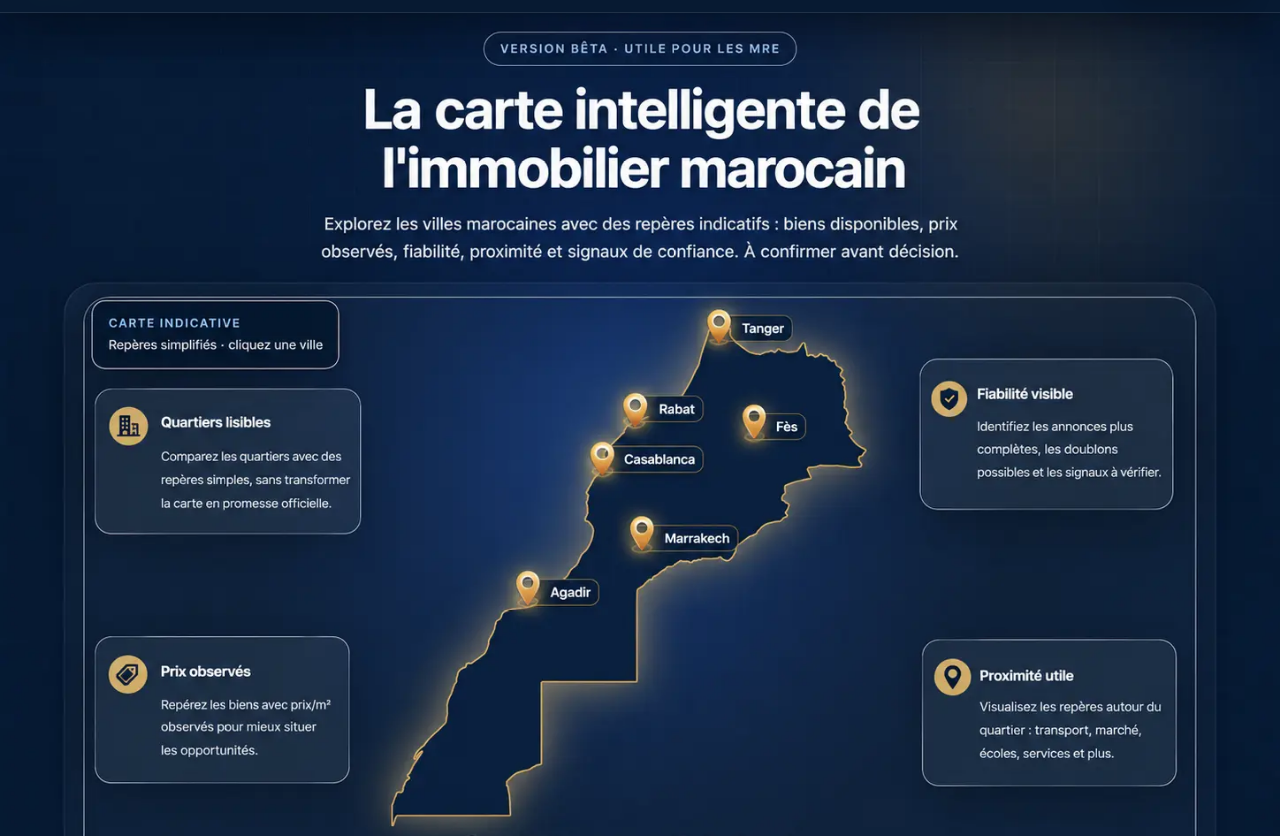
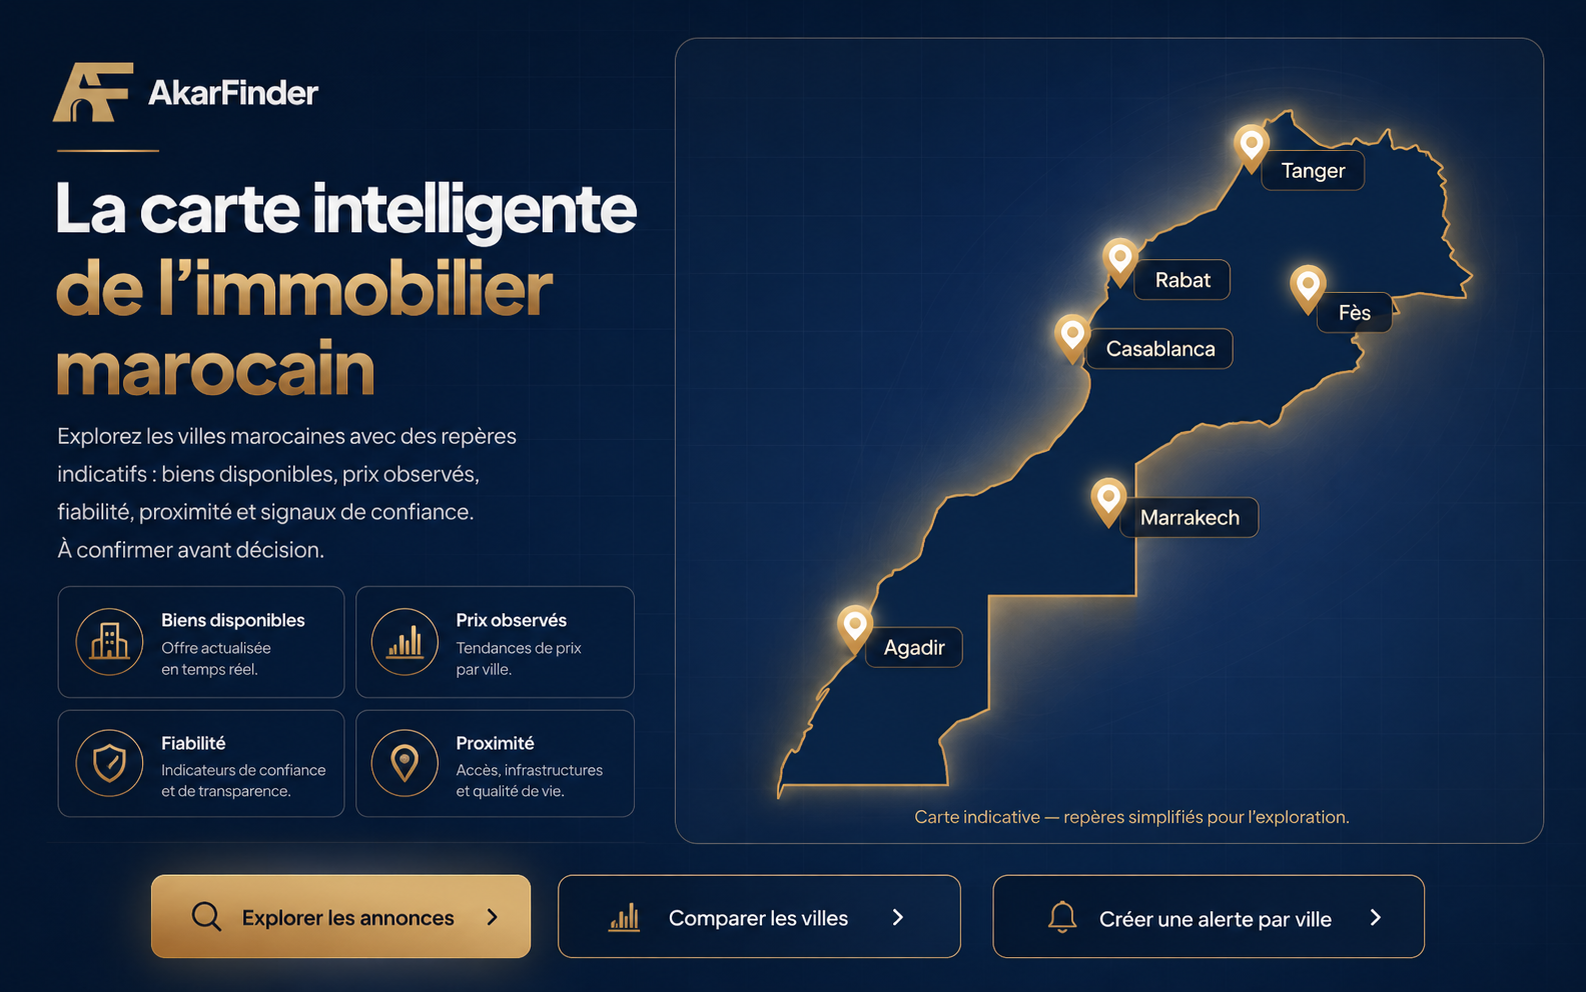
feat(carte-intelligente): new map section images + corrected city pins
- map-section-desktop.png replaced (1586x992, full 2-column design)
- map-section-mobile.png replaced (941x1672, map + Explorer city rows)
- SignatureMapSection: desktop pins recalibrated for new image
- SignatureMapSection: mobile pins + city row zones added (6 cities)
- Fes and Marrakech positions corrected
- Re-added to homepage (after CityIntentGrid)
- All links point to /search?city=CityName

diff --git a/components/landing/SignatureMapSection.tsx b/components/landing/SignatureMapSection.tsx
@@ -1,35 +1,56 @@
 import Image from "next/image";
 import Link from "next/link";
 
+// Zones cliquables sur le desktop (image 1586×992)
+// Le panneau carte est à droite (~37% à ~98% de la largeur)
 const desktopPins = [
-  { city: "Tanger",     href: "/search?city=Tanger",     top: "38%", left: "72%" },
-  { city: "Fès",        href: "/search?city=F%C3%A8s",   top: "43%", left: "74%" },
-  { city: "Rabat",      href: "/search?city=Rabat",      top: "43%", left: "58%" },
-  { city: "Casablanca", href: "/search?city=Casablanca", top: "47%", left: "56%" },
-  { city: "Marrakech",  href: "/search?city=Marrakech",  top: "55%", left: "53%" },
-  { city: "Agadir",     href: "/search?city=Agadir",     top: "63%", left: "44%" },
+  { city: "Tanger",     href: "/search?city=Tanger",     top: "15%", left: "69%" },
+  { city: "Fès",        href: "/search?city=F%C3%A8s",   top: "31%", left: "74%" },
+  { city: "Rabat",      href: "/search?city=Rabat",      top: "30%", left: "59%" },
+  { city: "Casablanca", href: "/search?city=Casablanca", top: "39%", left: "56%" },
+  { city: "Marrakech",  href: "/search?city=Marrakech",  top: "51%", left: "64%" },
+  { city: "Agadir",     href: "/search?city=Agadir",     top: "60%", left: "52%" },
 ];
 
-// Overlays sur les boutons "Explorez les villes" en bas de l'image carte intelligente mobile
-const mobileCityCards = [
-  { city: "Casablanca", href: "/search?city=Casablanca", top: "63%", height: "10%" },
-  { city: "Rabat",      href: "/search?city=Rabat",      top: "73%", height: "10%" },
-  { city: "Tanger",     href: "/search?city=Tanger",     top: "73%", height: "10%" },
-  { city: "Fès",        href: "/search?city=F%C3%A8s",   top: "83%", height: "10%" },
-  { city: "Marrakech",  href: "/search?city=Marrakech",  top: "83%", height: "10%" },
-  { city: "Agadir",     href: "/search?city=Agadir",     top: "63%", height: "10%" },
+// Zones cliquables sur les pins de la carte mobile (image 941×1672)
+const mobilePins = [
+  { city: "Tanger",     href: "/search?city=Tanger",     top: "27%", left: "64%" },
+  { city: "Fès",        href: "/search?city=F%C3%A8s",   top: "35%", left: "73%" },
+  { city: "Rabat",      href: "/search?city=Rabat",      top: "33%", left: "50%" },
+  { city: "Casablanca", href: "/search?city=Casablanca", top: "37%", left: "46%" },
+  { city: "Marrakech",  href: "/search?city=Marrakech",  top: "44%", left: "59%" },
+  { city: "Agadir",     href: "/search?city=Agadir",     top: "50%", left: "36%" },
+];
+
+// Zones cliquables sur les lignes "Explorer [Ville]" mobile
+const mobileCityRows = [
+  { city: "Casablanca", href: "/search?city=Casablanca", top: "61.5%", height: "5.8%" },
+  { city: "Rabat",      href: "/search?city=Rabat",      top: "67.3%", height: "5.8%" },
+  { city: "Tanger",     href: "/search?city=Tanger",     top: "73.1%", height: "5.8%" },
+  { city: "Fès",        href: "/search?city=F%C3%A8s",   top: "78.9%", height: "5.8%" },
+  { city: "Marrakech",  href: "/search?city=Marrakech",  top: "84.7%", height: "5.8%" },
+  { city: "Agadir",     href: "/search?city=Agadir",     top: "90.5%", height: "5.8%" },
+];
+
+const ALL_CITIES = [
+  { city: "Casablanca", href: "/search?city=Casablanca" },
+  { city: "Rabat",      href: "/search?city=Rabat" },
+  { city: "Tanger",     href: "/search?city=Tanger" },
+  { city: "Fès",        href: "/search?city=F%C3%A8s" },
+  { city: "Marrakech",  href: "/search?city=Marrakech" },
+  { city: "Agadir",     href: "/search?city=Agadir" },
 ];
 
 export function SignatureMapSection() {
   return (
     <section id="signature-map">
-      {/* Desktop */}
+      {/* Desktop — image 1586×992, map on right panel */}
       <div className="relative hidden lg:block">
         <Image
           src="/images/map-section-desktop.png"
-          alt="Carte intelligente de l'immobilier marocain"
-          width={1280}
-          height={836}
+          alt="Carte intelligente de l'immobilier marocain — Casablanca, Rabat, Tanger, Fès, Marrakech, Agadir"
+          width={1586}
+          height={992}
           className="w-full"
           priority={false}
         />
@@ -38,32 +59,66 @@ export function SignatureMapSection() {
             key={city}
             href={href}
             aria-label={`Explorer les annonces à ${city}`}
-            className="absolute h-10 w-10 -translate-x-1/2 -translate-y-1/2 rounded-full"
+            className="group absolute h-14 w-28 -translate-x-1/2 -translate-y-1/2 cursor-pointer rounded-2xl"
             style={{ top, left }}
-          />
+          >
+            <span className="absolute inset-0 rounded-2xl bg-transparent transition duration-300 group-hover:bg-white/[0.08]" />
+          </Link>
         ))}
+
+        {/* CTA "Explorer les annonces" — bouton doré en bas à gauche */}
+        <Link
+          href="/search"
+          aria-label="Explorer les annonces"
+          className="absolute h-[8%] w-[22%] cursor-pointer rounded-2xl"
+          style={{ bottom: "5%", left: "4%" }}
+        />
       </div>
 
-      {/* Mobile */}
+      {/* Mobile — image 941×1672, map + liste des villes */}
       <div className="relative lg:hidden">
         <Image
           src="/images/map-section-mobile.png"
-          alt="Carte indicative de l'immobilier marocain — villes principales avec repères de prix"
-          width={390}
-          height={692}
+          alt="Carte indicative de l'immobilier marocain — villes principales"
+          width={941}
+          height={1672}
           className="w-full"
           priority={false}
         />
-        {mobileCityCards.map(({ city, href, top, height }) => (
+
+        {/* Zones sur les pins de la carte */}
+        {mobilePins.map(({ city, href, top, left }) => (
           <Link
-            key={city}
+            key={`pin-${city}`}
             href={href}
             aria-label={`Explorer les annonces à ${city}`}
-            className="absolute left-0 w-full"
+            className="group absolute h-10 w-10 -translate-x-1/2 -translate-y-1/2 cursor-pointer rounded-full"
+            style={{ top, left }}
+          >
+            <span className="absolute inset-0 rounded-full bg-transparent transition duration-300 group-hover:bg-white/[0.1]" />
+          </Link>
+        ))}
+
+        {/* Zones sur les lignes "Explorer [Ville]" */}
+        {mobileCityRows.map(({ city, href, top, height }) => (
+          <Link
+            key={`row-${city}`}
+            href={href}
+            aria-label={`Explorer les annonces à ${city}`}
+            className="absolute left-0 w-full cursor-pointer"
             style={{ top, height }}
           />
         ))}
       </div>
+
+      {/* Accessibilité */}
+      <ul className="sr-only">
+        {ALL_CITIES.map(({ city, href }) => (
+          <li key={city}>
+            <Link href={href}>Explorer les annonces à {city}</Link>
+          </li>
+        ))}
+      </ul>
     </section>
   );
 }

diff --git a/app/page.tsx b/app/page.tsx
@@ -3,6 +3,7 @@ import { MarketPulse } from "@/components/landing/MarketPulse";
 import { WhySection } from "@/components/landing/WhySection";
 import { DataProofBlock } from "@/components/landing/DataProofBlock";
 import { CityIntentGrid } from "@/components/landing/CityIntentGrid";
+import { SignatureMapSection } from "@/components/landing/SignatureMapSection";
 import { ListingPreview } from "@/components/landing/ListingPreview";
 import { HowItWorks } from "@/components/landing/HowItWorks";
 import { MreTrustSection } from "@/components/landing/MreTrustSection";
@@ -20,6 +21,7 @@ export default async function HomePage() {
       <Reveal><WhySection /></Reveal>
       <DataProofBlock />
       <Reveal><CityIntentGrid /></Reveal>
+      <SignatureMapSection />
       <Reveal><ListingPreview /></Reveal>
       <Reveal><HowItWorks /></Reveal>
       <Reveal><MreTrustSection /></Reveal>